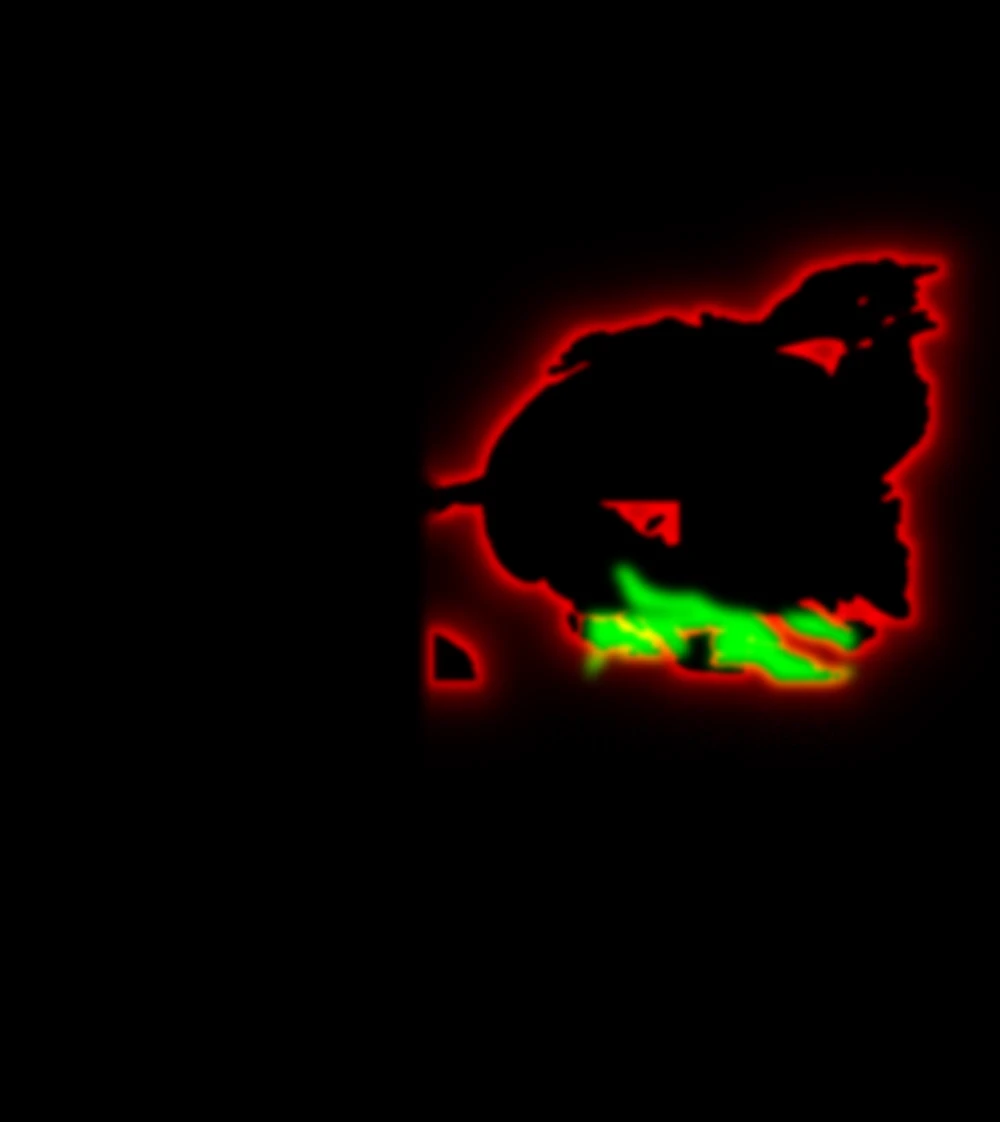
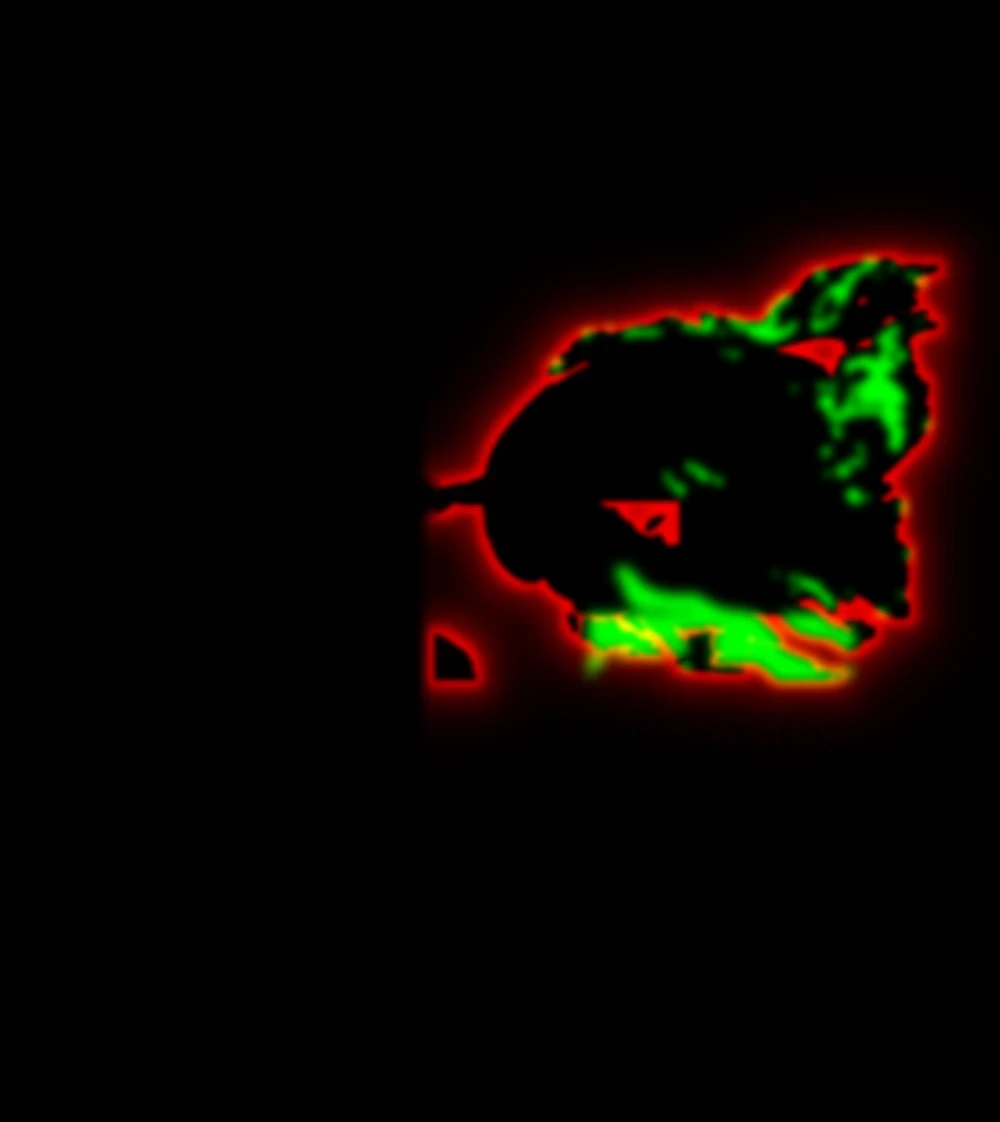
God's red mantle flows like cloth
The cloth mask now covers the mantle (rose-to-crimson, no yellow, inside
God's silhouette): the streamer, the folds around the angels and God's
legs ripple with the sash.

diff --git a/public/main.js b/public/main.js
@@ -45,8 +45,8 @@ const load = src => new Promise((res, rej) => { const i = new Image(); i.onload 
 // each picture is one painting grown past Michelangelo's frame; wide and tall screens are cut from it around its focus
 const shape = innerWidth / innerHeight >= .8 ? 'wide' : 'tall';
 if (!gl) { root.classList.add('no-gl'); ready(); }
-else fetch('/img/scene.json?v=1791969749').then(r => r.json()).then(meta =>
-  Promise.all([shape === 'wide' ? 'night-wide' : 'night', shape === 'wide' ? 'night-wide-flow' : 'night-flow', shape === 'wide' ? 'day' : 'day-tall', shape === 'wide' ? 'day-flow' : 'day-tall-flow', shape === 'wide' ? 'supper' : 'supper-tall', shape === 'wide' ? 'supper-flow' : 'supper-tall-flow', shape === 'wide' ? 'day-rift' : 'day-tall-rift', shape === 'wide' ? 'supper-aura' : 'supper-tall-aura'].map(n => load(`/img/${n}.webp?v=1791969749`)))
+else fetch('/img/scene.json?v=1791970508').then(r => r.json()).then(meta =>
+  Promise.all([shape === 'wide' ? 'night-wide' : 'night', shape === 'wide' ? 'night-wide-flow' : 'night-flow', shape === 'wide' ? 'day' : 'day-tall', shape === 'wide' ? 'day-flow' : 'day-tall-flow', shape === 'wide' ? 'supper' : 'supper-tall', shape === 'wide' ? 'supper-flow' : 'supper-tall-flow', shape === 'wide' ? 'day-rift' : 'day-tall-rift', shape === 'wide' ? 'supper-aura' : 'supper-tall-aura'].map(n => load(`/img/${n}.webp?v=1791970508`)))
     .then(ims => paint(gl, ims, meta[shape])))
   .catch(e => { console.error(String(e && e.message || e)); root.classList.add('no-gl'); ready(); });   // log, then fall back
 

diff --git a/public/index.html b/public/index.html
@@ -19,7 +19,7 @@
 <link rel="preconnect" href="https://fonts.googleapis.com">
 <link rel="preconnect" href="https://fonts.gstatic.com" crossorigin>
 <link rel="stylesheet" href="https://fonts.googleapis.com/css2?family=Cinzel:wght@400;500&family=Cormorant+Garamond:ital,wght@0,300;0,400;1,300;1,400&display=swap">
-<link rel="stylesheet" href="/style.css?v=1791969749">
+<link rel="stylesheet" href="/style.css?v=1791970508">
 <script>document.documentElement.classList.add('js')</script>
 </head>
 <body>
@@ -85,6 +85,6 @@
 
 
 <noscript><style>.reveal,.reveal-words,.display .line>span{opacity:1!important;transform:none!important}</style></noscript>
-<script type="module" src="/main.js?v=1791969749"></script>
+<script type="module" src="/main.js?v=1791970508"></script>
 </body>
 </html>

diff --git a/tools/ground.py b/tools/ground.py
@@ -1,0 +1,53 @@
+# Repaints the ground of the phone's day picture as Michelangelo's world: bare primordial earth, sculptural slopes,
+# muted ochre / umber / grey-green, a pale distant plain; the figures untouched. One global pass, then full-res refinement.
+import sys, gc, torch, numpy as np
+from PIL import Image, ImageFilter
+from diffusers import StableDiffusionXLInpaintPipeline
+seed = int(sys.argv[1]); out = sys.argv[2]
+img = Image.open('/Users/f/Sites/foundation/src/grown/day-tall.png').convert('RGB'); W, H = img.size
+fig = Image.open('/Users/f/Sites/foundation/src/masks/day-tall-figures-rift.png').convert('L').resize((W, H))
+yy, xx = np.mgrid[0:H, 0:W]
+m = np.clip((yy - 1560) / 90., 0, 1)                                       # everything below Adam's hill
+m = np.maximum(m, np.clip((yy - 1430) / 90., 0, 1) * np.clip((xx - 1000) / 120., 0, 1))   # and the ground beneath God
+m *= 1 - np.asarray(fig.filter(ImageFilter.MaxFilter(15)).filter(ImageFilter.GaussianBlur(6)), np.float32) / 255
+mask = Image.fromarray((m * 255).astype(np.uint8))
+# start from the current ground, blurred and quieted: keep its light, lose its storybook details
+base = img.filter(ImageFilter.GaussianBlur(28))
+bn = np.asarray(base, np.float32); l = bn.mean(2, keepdims=True); bn = l + (bn - l) * .55
+bn = bn * np.array([1.0, .96, .86]) 
+init = Image.composite(Image.fromarray(np.clip(bn, 0, 255).astype(np.uint8)), img, mask)
+P = ("Michelangelo, Sistine Chapel ceiling fresco: the bare primordial earth on the day of creation, sculptural sweeping slopes of "
+     "ochre and umber earth, grey-green rock, a few sparse dark tufts, a pale misty plain stretching to soft distant hills, "
+     "monumental and quiet, muted earthy fresco palette, chalky buon fresco texture, masterpiece")
+N = ("flowers, roses, garden, path, road, trees, forest, bushes, houses, village, people, figure, animal, bright colours, saturated, "
+     "storybook, children's book, cartoon, illustration, fantasy, 3d render, photo, text, frame, border")
+pipe = StableDiffusionXLInpaintPipeline.from_pretrained("diffusers/stable-diffusion-xl-1.0-inpainting-0.1", torch_dtype=torch.float16, variant="fp16").to("mps")
+pipe.enable_attention_slicing(); pipe.vae.enable_tiling()
+gw, gh = 832, round(832 * H / W / 8) * 8
+r = pipe(prompt=P, negative_prompt=N, image=init.resize((gw, gh), Image.LANCZOS), mask_image=mask.resize((gw, gh), Image.LANCZOS),
+         width=gw, height=gh, num_inference_steps=40, guidance_scale=7.5, strength=.9, generator=torch.Generator("cpu").manual_seed(seed)).images[0]
+g1 = np.asarray(r.resize((W, H), Image.LANCZOS), np.float32)
+mm = (m)[..., None]
+step = np.asarray(img, np.float32) * (1 - mm) + g1 * mm
+gc.collect(); torch.mps.empty_cache(); print('global', flush=True)
+# full-resolution refinement, tile by tile, inside the same mask
+res = np.zeros((H, W, 3), np.float32); acc = np.zeros((H, W, 1), np.float32)
+s_img = Image.fromarray(np.clip(step, 0, 255).astype(np.uint8))
+ys = list(range(1380, H - 1024, 700)) + [H - 1024]; k = 0
+for y0 in ys:
+    for x0 in (0, W - 1024):
+        crop = s_img.crop((x0, y0, x0 + 1024, y0 + 1024))
+        rr = pipe(prompt=P, negative_prompt=N, image=crop, mask_image=Image.new('L', (1024, 1024), 255), width=1024, height=1024,
+                  num_inference_steps=32, guidance_scale=7, strength=.32, generator=torch.Generator("cpu").manual_seed(seed + 10 + k)).images[0]
+        w = np.ones((1024, 1024), np.float32); ramp = np.linspace(0, 1, 180)
+        if y0 > 1380: w[:180] *= ramp[:, None]
+        if y0 + 1024 < H: w[-180:] *= ramp[::-1][:, None]
+        if x0 > 0: w[:, :180] *= ramp[None]
+        if x0 + 1024 < W: w[:, -180:] *= ramp[::-1][None]
+        res[y0:y0+1024, x0:x0+1024] += np.asarray(rr, np.float32) * w[..., None]; acc[y0:y0+1024, x0:x0+1024] += w[..., None]
+        k += 1; gc.collect(); torch.mps.empty_cache(); print('tile', k, flush=True)
+fine = np.where(acc > 1e-3, res / np.maximum(acc, 1e-4), step)
+final = np.asarray(img, np.float32) * (1 - mm) + fine * mm
+Image.fromarray(np.clip(final, 0, 255).astype(np.uint8)).save(out)
+Image.fromarray(np.clip(final, 0, 255).astype(np.uint8)).resize((486, 802)).save(out.replace('.png', '-s.jpg'), quality=85)
+print('saved', out, flush=True)

diff --git a/tools/detail.py b/tools/detail.py
@@ -1,0 +1,31 @@
+# Repaints the lower half of the phone's day picture at full resolution, tile by tile, for finer detail.
+import gc, torch, numpy as np
+from PIL import Image
+from diffusers import StableDiffusionXLInpaintPipeline
+src = '/Users/f/Sites/foundation/src/grown/day-tall.png'
+img = Image.open(src).convert('RGB'); W, H = img.size; Y0 = 1660
+P = ("High Renaissance oil painting in the manner of Michelangelo and Leonardo: the Garden of Eden in morning light, finely painted "
+     "rocks and warm earth, leafy trees with detailed foliage, wildflowers and roses, a winding path into the valley, sharp painterly "
+     "detail, sculptural forms, rich warm palette, masterpiece")
+N = "people, figure, face, body, animal, text, signature, frame, border, blurry, soft, smooth, 3d render, photo, cartoon"
+pipe = StableDiffusionXLInpaintPipeline.from_pretrained("diffusers/stable-diffusion-xl-1.0-inpainting-0.1", torch_dtype=torch.float16, variant="fp16").to("mps")
+pipe.enable_attention_slicing()
+out = np.asarray(img, np.float32).copy(); acc = np.zeros((H, W, 1), np.float32); res = np.zeros((H, W, 3), np.float32)
+xs = [0, W - 1024]; ys = list(range(Y0, H - 1024, 640)) + [H - 1024]
+k = 0
+for y0 in ys:
+    for x0 in xs:
+        crop = img.crop((x0, y0, x0 + 1024, y0 + 1024))
+        r = pipe(prompt=P, negative_prompt=N, image=crop, mask_image=Image.new('L', (1024, 1024), 255), width=1024, height=1024,
+                 num_inference_steps=36, guidance_scale=7, strength=.48, generator=torch.Generator("cpu").manual_seed(20 + k)).images[0]
+        w = np.ones((1024, 1024), np.float32); ramp = np.linspace(0, 1, 160)
+        w[:160] *= ramp[:, None]; w[-160:] *= ramp[::-1][:, None]; w[:, :160] *= ramp[None]; w[:, -160:] *= ramp[::-1][None]
+        if x0 == 0: w[:, :160] = np.maximum(w[:, :160], 1e-3) ** 0 * w[:, 160:161]
+        if x0 + 1024 >= W: w[:, -160:] = w[:, -161:-160]
+        if y0 + 1024 >= H: w[-160:] = w[-161:-160]
+        res[y0:y0+1024, x0:x0+1024] += np.asarray(r, np.float32) * w[..., None]; acc[y0:y0+1024, x0:x0+1024] += w[..., None]
+        k += 1; gc.collect(); torch.mps.empty_cache(); print('tile', k, flush=True)
+new = res / np.maximum(acc, 1e-4)
+blend = np.clip((np.arange(H) - Y0) / 260., 0, 1)[:, None, None] * (acc > 1e-3)        # fade in below Adam's hill
+final = out * (1 - blend) + new * blend
+Image.fromarray(np.clip(final, 0, 255).astype(np.uint8)).save('aiv/day-tall-detail.png'); print('saved', flush=True)
